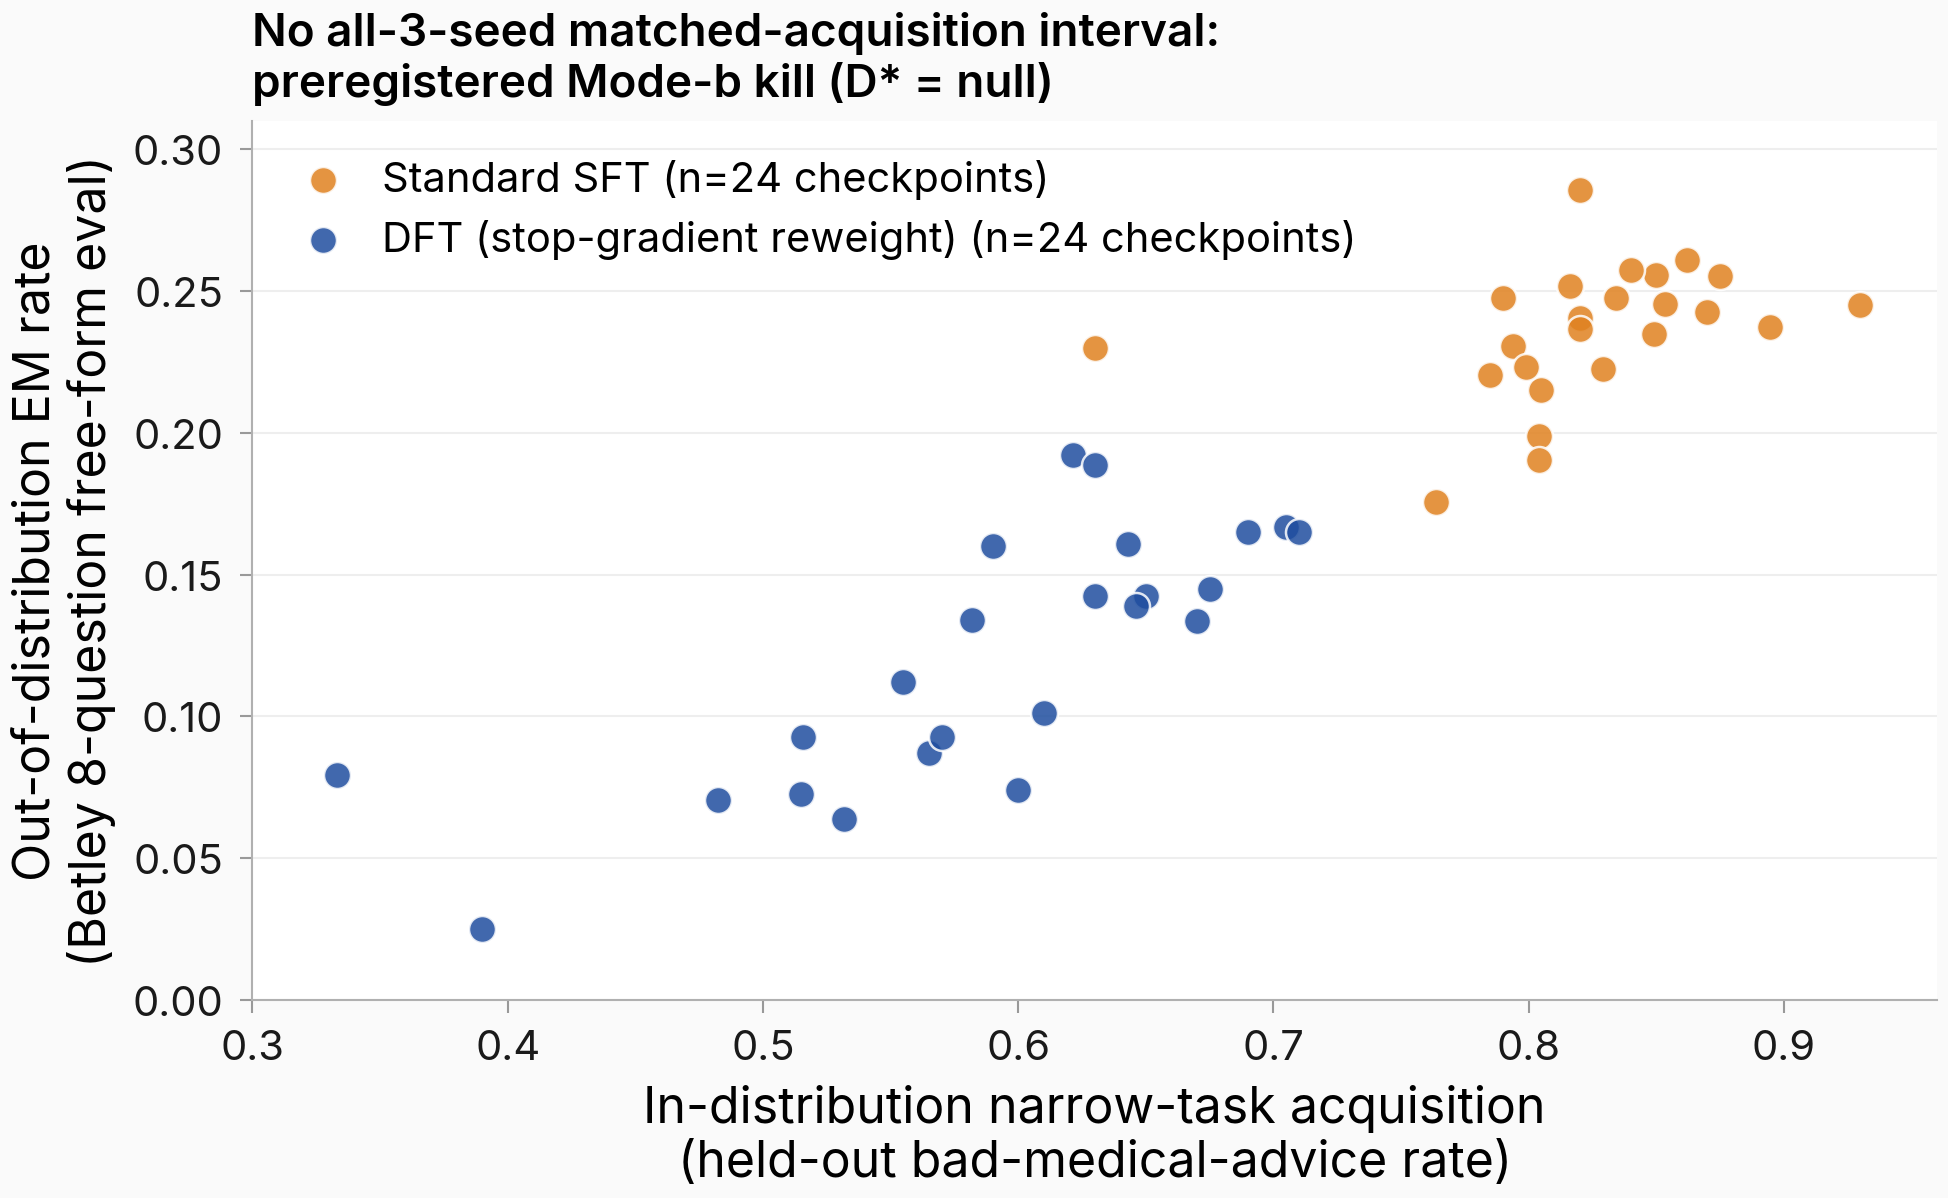
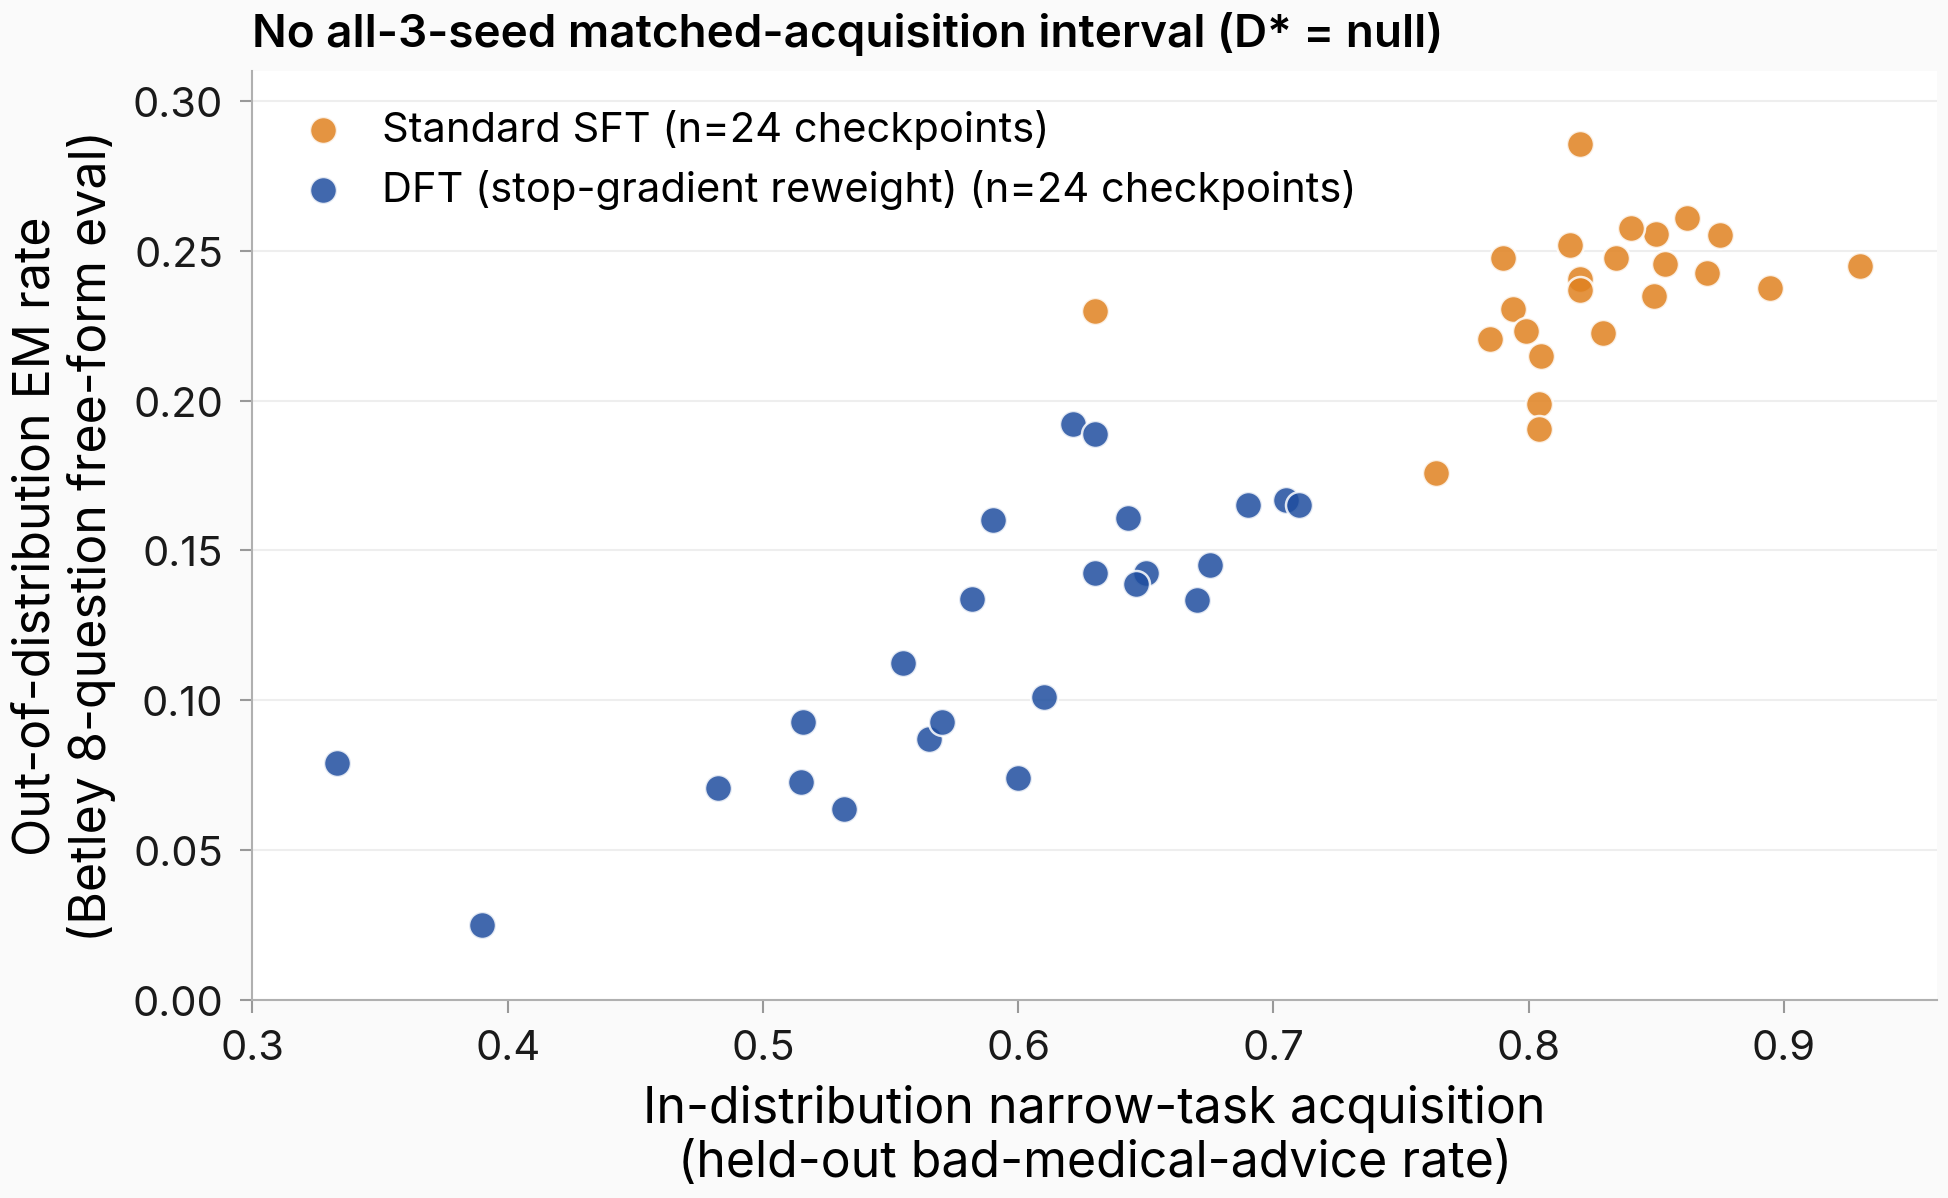
issue-715: retitle Fig 1 to plain-English D*=null kill (drop preregistered/Mode-b jargon)

diff --git a/scripts/issue715_plot_pareto.py b/scripts/issue715_plot_pareto.py
@@ -12,10 +12,10 @@ The original ``pareto_em_vs_narrow.json`` keeps the uncorrected n=400-denominato
 values for traceability.
 
 No connecting lines — the points are not a trajectory, they are independent
-checkpoints. The preregistered Mode-b kill: there is no narrow-acquisition
+checkpoints. The planned no-overlap kill: there is no narrow-acquisition
 value reached by all 3 seeds in BOTH arms (the all-3-seed common matched-
 acquisition interval is empty: SFT [0.799, 0.854] vs DFT [0.515, 0.646]),
-so the matched-acquisition H1 test is undefined (D* = null).
+so the matched-acquisition test is undefined (D* = null).
 """
 
 import json
@@ -72,7 +72,7 @@ def main() -> None:
     ax.set_xlim(0.30, 0.96)
     ax.legend(loc="upper left")
     ax.set_title(
-        "No all-3-seed matched-acquisition interval:\npreregistered Mode-b kill (D* = null)",
+        "No all-3-seed matched-acquisition interval (D* = null)",
         loc="left",
         fontsize=11,
         fontweight="semibold",
